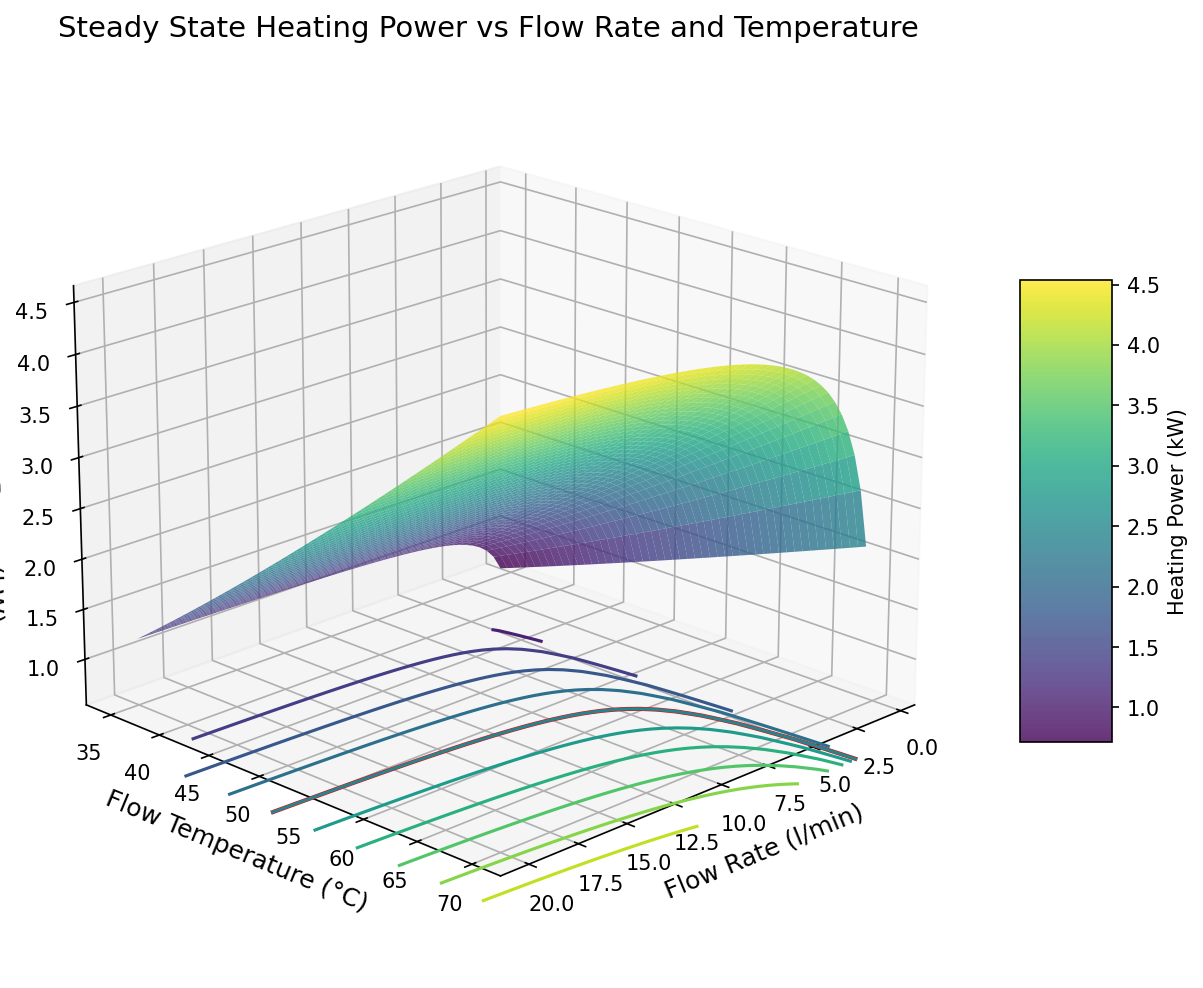
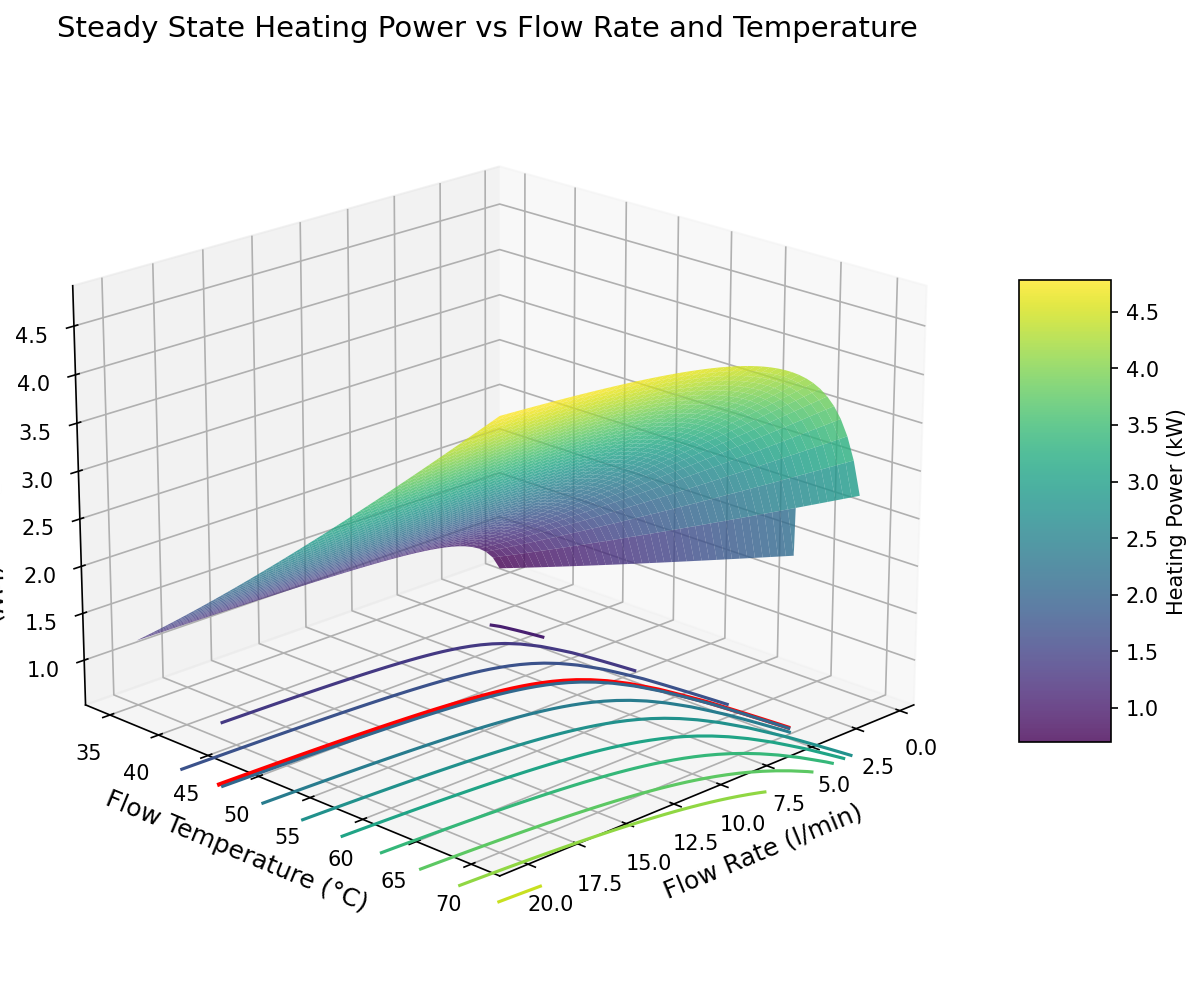
Final rework.

diff --git a/src/heat_pump_cost/radiator_analysis.py b/src/heat_pump_cost/radiator_analysis.py
@@ -23,7 +23,7 @@ TI = 19.0  # Indoor temperature [°C]
 TO = 5.0  # Outdoor temperature [°C]
 
 # Radiator properties
-K_CURRENT = 35.9  # Current radiator constant [W/K^1.2]
+K_CURRENT = 44.9  # Current radiator constant [W/K^1.2]
 N_RAD = 1.2  # Radiator exponent
 
 # Operating parameters
@@ -163,15 +163,21 @@ def plot_performance_vs_power(k_rad=K_CURRENT, vf=VF_FIXED,
     
     # Mark the three key power levels on temperature axis
     key_powers = [1.96, 2.335, 3.12]
-    for qk in key_powers:
+    key_labels = ['S1: 1.96 kW\n(+log burner)', 'S2: 2.34 kW\n(no log burner)', 'S3: 3.12 kW\n(peak)']
+    key_colors = ['steelblue', 'darkorange', 'firebrick']
+    for qk, label, col in zip(key_powers, key_labels, key_colors):
         if power_range[0]/1000 <= qk <= power_range[1]/1000:
+            ax1.axvline(x=qk, color=col, linewidth=0.9, linestyle='--', alpha=0.7)
             idx = np.argmin(np.abs(powers_kw - qk))
             if not np.isnan(flow_temps[idx]):
                 ax1.plot(qk, flow_temps[idx], 'o', color=color1, markersize=8)
-                ax1.annotate(f'{flow_temps[idx]:.0f}°C', 
-                           xy=(qk, flow_temps[idx]), 
-                           xytext=(10, 10), textcoords='offset points',
+                ax1.annotate(f'{flow_temps[idx]:.0f}°C',
+                           xy=(qk, flow_temps[idx]),
+                           xytext=(6, 6), textcoords='offset points',
                            fontsize=9, color=color1)
+            # Annotate label near the top of the plot
+            ax1.text(qk + 0.04, ax1.get_ylim()[0] + (ax1.get_ylim()[1] - ax1.get_ylim()[0]) * 0.97,
+                     label, fontsize=7.5, color=col, va='top', ha='left', linespacing=1.3)
     
     # Create second y-axis on top for COP
     ax2 = ax1.twinx()
@@ -188,7 +194,7 @@ def plot_performance_vs_power(k_rad=K_CURRENT, vf=VF_FIXED,
     ax2.set_ylim([1.5, 6.5])
     
     # Mark the three key power levels on COP axis
-    for qk in key_powers:
+    for qk, col in zip(key_powers, key_colors):
         if power_range[0]/1000 <= qk <= power_range[1]/1000:
             idx = np.argmin(np.abs(powers_kw - qk))
             if not np.isnan(cops[idx]):
@@ -244,13 +250,21 @@ def plot_performance_vs_k(power_levels=[1960, 2335, 3120], vf=VF_FIXED,
     ax2.set_ylabel('COP', fontsize=12, color='black')
     ax2.set_ylim([1.5, 7.0])
     
-    # Plot break-even line
+    # Plot break-even lines
     ax2.axhline(y=4.67, color='black', linestyle='--', linewidth=2, 
                 label='Target COP = 4.67', alpha=0.7)
+    ax1.axhline(y=37.1, color='black', linestyle='--', linewidth=1.2,
+                alpha=0.5, label='T$_f$ = 37.1°C (break-even)')
+
+    # Vertical line at current K
+    ax1.axvline(x=K_CURRENT, color='grey', linewidth=1.2, linestyle='-', alpha=0.8)
+    current_k_annotation = (K_CURRENT, 'grey', f'Current\nK={K_CURRENT}')
     
     lines_temp = []
     lines_cop = []
-    
+    scenario_labels = ['S1: 1.96 kW\n(+log burner)', 'S2: 2.34 kW\n(no log burner)', 'S3: 3.12 kW\n(peak)']
+    vline_annotations = []  # collect (k_target, color, label) for drawing after loop
+
     for i, q_target in enumerate(power_levels):
         print(f"Calculating performance vs K for Q = {q_target/1000:.2f} kW...")
         
@@ -305,6 +319,20 @@ def plot_performance_vs_k(power_levels=[1960, 2335, 3120], vf=VF_FIXED,
                                markersize=10, markeredgecolor='black', markeredgewidth=2)
                         ax2.plot(k_target, 4.67, 'o', color=colors[i], 
                                markersize=10, markeredgecolor='black', markeredgewidth=2)
+                        # Vertical line at break-even K — annotation deferred until after loop
+                        ax1.axvline(x=k_target, color=colors[i], linewidth=0.9, linestyle=':', alpha=0.7)
+                        vline_annotations.append((k_target, colors[i], scenario_labels[i]))
+
+    # Draw vertical-line annotations now that ylim is finalised
+    y_top = ax1.get_ylim()[0] + (ax1.get_ylim()[1] - ax1.get_ylim()[0]) * 0.97
+    # Current K annotation
+    k_ann, col, lbl = current_k_annotation
+    ax1.text(k_ann + 0.8, y_top, lbl,
+             fontsize=7.5, color=col, va='top', ha='left', linespacing=1.3)
+    for k_ann, col, lbl in vline_annotations:
+        ax1.text(k_ann + 0.8, y_top,
+                 f'{lbl}\nK≈{k_ann:.0f}',
+                 fontsize=7.5, color=col, va='top', ha='left', linespacing=1.3)
     
     # Title
     fig.suptitle(f'Flow Temperature and COP vs Radiator Constant\n(V$_f$ = {vf*60:.0f} l/min, T$_o$ = {TO:.0f}°C)', 

diff --git a/src/heat_pump_cost/operations_model.py b/src/heat_pump_cost/operations_model.py
@@ -24,9 +24,9 @@ TO = 5.0  # Outdoor temperature [°C] (January 2026 average)
 # Radiator properties
 # Empirically calibrated from January 2026 actual operation:
 # - Average heating power: 1.96 kW at Ti=19°C, To=5°C
-# - Observed mean radiator temp: ~47.5°C
+# - Observed mean radiator temp: ~42.3°C (at ~10 l/min)
 # - This includes all radiators + pipework heat distribution
-K_RAD = 36.4  # Empirical radiator constant [W/K^n]
+K_RAD = 44.9  # Empirical radiator constant [W/K^n]
 N_RAD = 1.2  # Radiator exponent
 
 # Target heating power (actual average from January 2026)

diff --git a/operations-static.md b/operations-static.md
@@ -1,29 +1,31 @@
-# Accepting the Need for Radiator Upgrades with a Heat Pump Installation 
+# A High Spark Gap Forces Radiator Upgrades in a Heat Pump Installation 
 
-Motivated by the desire to transition away from heating with gas and reduce CO2 emissions I have been reading up on heat pumps and their installation. Various sources such as ["So You're Thinking About a Heat Pump: The UK Homeowner's Guide to Heat Pumps"](https://www.amazon.co.uk/Youre-Thinking-About-Heat-Pump/dp/B0GK7H511K/) or [The Ultimate Guide to Heat Pumps: Britain's best installers and experts tell you exactly what to watch for and what to ask](https://www.amazon.co.uk/Ultimate-Guide-Heat-Pumps-installers/dp/B0FNMNVC4Q) recommend radiator upgrades which do unfortunately increase installation costs. Initially, I hoped to avoid such an upgrade by using a heat pump in tandem with our log burner. In order to be able to make a more informed decision, however, I have carried out a simple analysis using steady-state thermal models. The outcome is perhaps unsurprising: at current energy prices, radiator upgrades appear to be necessary for economically viable heat pump operation in all scenarios, suggesting that the primary motivation for switching would be decarbonisation rather than cost saving. The physical relationship between radiator capacity, flow temperature, and heat pump efficiency creates a trade-off between capital investment and operational flexibility. Note, that this story focuses on order-of-magnitude estimates rather than precise scientific calculations.
+Motivated by the desire to transition away from heating with gas and reduce CO2 emissions I have been reading up on heat pumps and their installation. Various sources such as ["So You're Thinking About a Heat Pump: The UK Homeowner's Guide to Heat Pumps"](https://www.amazon.co.uk/Youre-Thinking-About-Heat-Pump/dp/B0GK7H511K/) or [The Ultimate Guide to Heat Pumps: Britain's best installers and experts tell you exactly what to watch for and what to ask](https://www.amazon.co.uk/Ultimate-Guide-Heat-Pumps-installers/dp/B0FNMNVC4Q) recommend radiator upgrades which do unfortunately increase installation costs. Initially, I hoped to avoid such an upgrade by using a heat pump in tandem with our log burner. In order to be able to make a more informed decision, however, I have carried out a simple analysis using steady-state thermal models. 
+
+The outcome doesn't come as a surprise: the spark gap, the ratio of the unit price of electricity to that of gas, currently stands at about 4.67(^2); this directly sets the minimum Coefficient of Performance (COP) a heat pump must achieve to be cheaper to run than a gas boiler. Achieving that COP requires operating at sufficiently low flow temperatures, which in turn requires more radiator capacity than we currently have. The radiator upgrades are therefore a consequence of the high spark gap rather than an inherent requirement of heat pump technology; at present energy prices the motivation for switching remains decarbonisation rather than cost saving. Note that this story focuses on order-of-magnitude estimates rather than precise scientific calculations.
 
 # Static Analysis and Heat Loss
 
-The starting point of this analysis is the state of our property after the efforts detailed in [Improving the Thermal Performance of UK 1930s Semi Detached Houses](https://peter-wurmsdobler.medium.com/improving-the-thermal-performance-of-uk-1930s-semi-detached-houses-6f64c6514565). Therein the heat transfer model derived from first principles estimates the specific heat loss, or Heat Transfer Coefficient (HTC), to be **244 W/K**. In order to work out a representative heat loss of the building, I chose a cold winter month in Cambridge, UK: the bleak January 2026 with an average outdoor temperature T_o = 5°C; the indoor temperature was kept on average at T_i = 19°C (approximately 20°C downstairs, about 18°C upstairs). The resulting temperature difference is ΔT = 14K and yields an heat loss of Q_l = 244 × 14 = **3.42 kW**.
+The starting point of this analysis is the state of our property after the efforts detailed in [Improving the Thermal Performance of UK 1930s Semi Detached Houses](https://peter-wurmsdobler.medium.com/improving-the-thermal-performance-of-uk-1930s-semi-detached-houses-6f64c6514565). Therein the heat transfer model derived from first principles estimates the specific heat loss, or Heat Transfer Coefficient (HTC), to be **244 W/K**. In order to work out a representative heat loss of the building, I chose a cold winter month in Cambridge, UK: the bleak January 2026 with an average outdoor temperature T_o = 5°C; the indoor temperature was kept on average at T_i = 19°C (approximately 20°C downstairs, about 18°C upstairs). The resulting temperature difference is ΔT = 14K and yields a heat loss of Q_l = 244 × 14 = **3.42 kW**.
 
-To validate this estimate, I looked up our energy consumption for January 2026: over that period electricity consumption was 263.75kWh (8.5kWh/day on average or 0.35kW continuous power), and gas utilisation was 1,924.91kWh (62.1 kWh/day on average or 2.59kW continuous power); the latter includes space heating and domestic hot water (DHC). It is assumed that energy for DHC stays mostly the same throughout the year and is responsible for the gas use in summer; for instance, in summer 2025 gas usage was about 12.5 kWh per day on average. As mentioned before, we have been using a log burner as supplemental heat source, providing approximately 3 kW output for 3 hours daily which contributes 9 kWh/day as heat (0.375 kW average power). Over the heating period we are using about 1m^3 of locally source hard wood for £150, which results in about £1/day.
+To validate this estimate, I looked up our energy consumption for January 2026: over that period electricity consumption was 263.75kWh (8.5kWh/day on average or 0.35kW continuous power), and gas utilisation was 1,924.91kWh (62.1 kWh/day on average or 2.59kW continuous power); the latter includes space heating and domestic hot water (DHC). It is assumed that energy for DHC stays mostly the same throughout the year and is solely responsible for the gas use in summer; for instance, in summer 2025 gas usage was about 12.5 kWh per day on average. In addition, we have been using a log burner as supplemental heat source, providing approximately 3 kW output for 3 hours daily which contributes 9 kWh/day as heat (0.375 kW average power). Over the heating period we are using about 1m^3 of locally sourced hard wood for £150, which results in about £1/day.
 
-After subtracting the estimated DHC portion (12.5 kWh/day) from total gas consumption (62.1 kWh/day), the remaining 49.6 kWh/day of gas provides 47.12 kWh/day of actual heat to the radiators at 95% boiler efficiency(^1), i.e. 1.96 kW average power. Since most of electricity is eventually dissipated as heat, e.g. from appliances, it will add about 0.3 kW as a heating equivalent. All combined, the total average heating power is 2.635 kW (radiators 1.96 kW + log burner 0.375 kW + appliances 0.3 kW), which is 77% of the estimated heat loss from the thermal model (3.42 kW). This discrepancy is a bit more than I expected but also reasonable, considering unaccounted solar gain and internal heat gains from occupants, as well as the fact that not all rooms are maintained at 19°C continuously (heating off from 10pm to 5am, and entrance hall more like 15°C). 
+After subtracting the estimated DHC portion (12.5 kWh/day) from total gas consumption (62.1 kWh/day), the remaining 49.6 kWh/day of gas provides 47.12 kWh/day of actual heat to the radiators at 95% boiler efficiency(^1), i.e. 1.96 kW average power. Electricity consumed by appliances and eventually dissipated as heat will add about 0.3 kW as a heating equivalent. All combined, the total average heating power is 2.635 kW (radiators 1.96 kW + log burner 0.375 kW + appliances 0.3 kW), which is 77% of the estimated heat loss from the thermal model (3.42 kW). This discrepancy is a bit more than I expected but also reasonable, considering unaccounted solar gain and internal heat gains from occupants, as well as the fact that not all rooms are maintained at 19°C continuously (heating off from 10pm to 5am, and entrance hall more like 15°C) and we use thick curtains for the main entrance, french doors and windows. 
 
 ## Stationary Model of a House
 
-The model used here assumes a simple lumped-mass representation of the house with the following parameters: internal thermal capacity or mass C, insulated envelope with heat transfer coefficient h, internal temperature T_i, and outside temperature T_o. Heat is supplied as Q_h through a flow rate V_f at flow temperature T_f and return temperature T_r. Heat is transferred to the internal thermal mass as Q_r through radiators with a characteristic constant K and radiative exponent n. Supplemental heat Q_b is provided by a log burner, and Q_a from appliances. The house loses heat as Q_l through the building fabric.
+The model used here assumes a simple lumped-mass representation of the house with the following parameters: internal temperature T_i, and outside temperature T_o; heat is supplied as Q_h at flow temperature T_f and return temperature T_r, then transferred to the internal thermal mass as Q_r through radiators; supplemental heat Q_b is provided by a log burner, and Q_a from appliances. The house loses heat as Q_l through the building fabric.
 
-![Simle termal model for house](assets/house-model.png)
+![Simple thermal model for house](assets/house-model.png)
 *Figure: Simple representation of a simple house model with heat sources and losses.*
 
-The individual heat contributions can be written using heating fluid (water) density ρ and its specific thermal capacity c_p as:
+The individual heat contributions can be written using heating fluid (water) density ρ and its specific thermal capacity c_p, the characteristic radiator constant K and radiative exponent n, the transfer coefficient h, and a flow rate V_f as:
 
 Q_h = V_f * ρ * c_p * (T_f - T_r)<br>
 Q_r = K * ((T_f + T_r)/2 - T_i)^n<br>
 Q_l = h * (T_i - T_o)
 
-In an equilibrium, or steady state, the heat balance for the radiator circuit (no losses in short pipework), is Q_h = Q_r, and for the room thermal balance, Q_r + Q_b + Q_a = Q_l; the balance is invariant to the thermal mass C. Overall, the radiator system must deliver:
+In an equilibrium, or steady state, the heat balance for the radiator circuit (no losses in short pipework), is Q_h = Q_r, and for the room thermal balance, Q_l = Q_r + Q_b + Q_a; the balance in a steady state is invariant to the thermal mass. Overall, the radiator system must deliver:
 
 Q_r = Q_l - Q_b - Q_a = h * (T_i - T_o) - Q_b - Q_a
 
@@ -31,64 +33,64 @@ This simplified model treats all radiators as a single unit, assuming uniform fl
 
 ## Empirical Validation
 
-To validate the model, on one hand I used the operating conditions from January 2026 with an average radiator heating power of 1.96 kW. On the other, The installed radiators comprise single panel with single convector (Type 11) with dimensions 0.6×0.5 m, 1.0×0.5 m, 1.2×0.5 m, 0.5×0.6 m, and two 0.4×1.8 m panels totalling A = 3.14 m², and double panel with double convector (Type 22) with dimensions 0.6×0.5 m and 1.2×0.5 m totalling A = 0.9 m². Heat transfer coefficients based on typical radiator performance data are U ≈ 8 W/m²/K^1.2 for Type 11 radiators and U ≈ 12 W/m²/K^1.2 for Type 22 radiators. The resulting radiator constant K = 35.9 W/K^1.2.
+To validate the model, I used the operating conditions from January 2026 with an average radiator heating power of 1.96 kW on one hand. On the other, The installed radiators comprise single panel with single convector (Type 11) with dimensions 0.6×0.5 m, 1.0×0.5 m, 1.2×0.5 m, 0.5×0.6 m, and two 0.4×1.8 m panels totalling A = 3.14 m², and double panel with double convector (Type 22) with dimensions 0.6×0.5 m and 1.2×0.5 m totalling A = 0.9 m². Heat transfer coefficients based on typical radiator performance data are U ≈ 10 W/m²/K^1.2 for Type 11 radiators and U ≈ 15 W/m²/K^1.2 for Type 22 radiators. The resulting radiator constant K = 44.9 W/K^1.2.
 
-Using the radiator equation Q_r = K × ΔT^1.2 and Q_r = 1.96 kW gives 1960 W = 35.9 W/K^1.2 × ΔT^1.2, i.e. ΔT required works out to be 28.5K. ΔT now depends on both the indoor temperature 19°C and the mean radiator temperature which depends on the flow rate and flow temperature; here we assume about 10 l/min which results in a mean radiator temperature of approximately 47.5°C (flow ~50°C, return ~45°C). I haven't got a temperature probe on the flow pipes, but the radiators "felt" very warm but not hot and it was bearable to touch them, which means the flow temperature is about 40ish °C. In addition, the boilers displayed a "boiler" temperature in the same range.
+Using the radiator equation Q_r = K × ΔT^1.2 and Q_r = 1.96 kW gives 1960 W = 44.9 W/K^1.2 × ΔT^1.2, i.e. ΔT required works out to be 23.3K. ΔT now depends on both the indoor temperature 19°C and the mean radiator temperature which depends on the flow rate and flow temperature; here we assume about 10 l/min which results in a mean radiator temperature of approximately 42.3°C (flow ~45°C, return ~40°C). I haven't got a temperature probe on the flow pipes, but the radiators "felt" very warm but not hot and it was bearable to touch them, which means the flow temperature is about 40ish °C. In addition, the boilers displayed a "boiler" temperature in the same range.
 
 ## Operating Constraints
 
-With our empirically validated radiator constant (K = 35.9 W/K^1.2), we can now explore the fundamental relationship between flow rate and flow temperature for delivering heating power. Using constants for water as the working fluid (ρ = 1 kg/l and c_p = 4.18 kJ/kg/K), with the January 2026 average conditions (T_o = 5°C and T_i = 19°C), and radiator exponent n = 1.2, there are multiple combinations of flow temperature T_f and flow rate V_f that can deliver the same heating power.
+With our empirically validated radiator constant (K = 44.9 W/K^1.2), we can now explore the fundamental relationship between flow rate and flow temperature for delivering heating power. Using constants for water as the working fluid (ρ = 1 kg/l and c_p = 4.18 kJ/kg/K), with the January 2026 average conditions (T_o = 5°C and T_i = 19°C), and radiator exponent n = 1.2, there are combinations of flow temperature T_f and flow rate V_f that can deliver the same heating power, shown as curves at constant power in the following plot. In other words, a heating controller can modulate either the flow temperature T_f or the flow rate V_f to achieve the same effect (if not sabotaged by Thermostatic Radaiator Valves, TRVs).
 
 ![Contour Plot](assets/operations_contour.png)
 *Figure: Contour plot showing constant heating power curves. The 1.96 kW average radiator heating power is highlighted in red. This curve represents the operational constraint imposed by the current radiator capacity.*
 
-For a given radiator constant K = 35.9 W/K^1.2, any target heating power defines a specific curve on this plot. The current radiators confine operation to the red 1.96 kW curve, which demonstrates the fundamental trade-off: low flow operation (~0.6 l/min) requires 70°C flow temperature with large temperature drop to the return temerpature (ΔT ≈ 33K) as well as a large temperature difference to the room temperature (ΔT ≈ 51K), whilst high flow operation (~20 l/min) requires only 47°C flow temperature with small temperature drop to the return temerpature (ΔT ≈ 1.5K) as well as a small temperature difference to the room temperature (ΔT ≈ 27K). 
+For a given radiator constant K = 44.9 W/K^1.2, any target heating power defines a specific curve on this plot. The current radiators confine operation to the red 1.96 kW curve, which demonstrates the fundamental trade-off: low flow operation (~0.6 l/min) requires 66°C flow temperature with a large temperature drop to the return (ΔT ≈ 47K), whilst high flow operation (~20 l/min) requires only 43°C flow temperature with a small temperature drop to the return (ΔT ≈ 1.4K). At both extremes the mean radiator temperature is roughly the same (~42°C, determined by K and the heating load), but the higher flow rate achieves the target power with a much lower flow temperature which is what matters for the heat pump COP. 
 
 # The Radiator Constant Impact
 
-The countour plot shows well that for a given radiator constant K and flow temperature the delivered heating power converges towards a constant with increasing flow rate; in other words, there is a limit to how much power can be delivered over existing radiators at a given flow temperature which is reached when the difference between radiator flow and return temperature goes to zero as the flow rate to infinity. Most pumps will struggle to reach that as fluid dynamics will affect resistance and pumping power; so practically, we stay with a maximum flow rate below 20l/min.
+The contour plot shows that for a given radiator constant K and flow temperature the delivered heating power converges towards a constant with increasing flow rate; in other words, there is a limit to how much power can be delivered over existing radiators at a given flow temperature which is reached when the difference between radiator flow and return temperature goes to zero as the flow rate goes to infinity. Most pumps will struggle to reach that as fluid dynamics will affect resistance and pumping power is limited; so practically, we stay with a maximum flow rate below 20l/min, assumed for the remainder of this story. Then the heat delivered becomes a function of the flow temperature only, and so does the COP.
 
 ## Performance over Power
 
-Suppose we set the flow rate at 20l/min for the rest of analysis. Then the heat delivered becomes a function of the flow temperature, and so does the COP. It is perhaps revealing to show the required flow temperature T_f as a function of heat delivered P_r in our current setup (K = 35.9 W/K^1.2), then also show the achievable COP for that power, bearing in mind that the heat pump needs to run at about 5°C above the radiator flow temperature since heat needs to be transferred from the internal heat pump circuit to the radiator circuit. Three scenarios detailed below demonstrate the issue.
+As already stated at the beginning, the spark gap is simply the ratio of the unit price of electricity to that of gas: at January 2026 prices, 27.69p/kWh divided by 5.93p/kWh gives 4.67(^2). For the heat pump to cost no more to run than the gas boiler it replaces, it must achieve a COP of at least 4.67; below that threshold, each unit of heat costs more to produce electrically than it would with gas. It is therefore perhaps revealing to show both the required flow temperature T_f and the achievable COP as a function of heat delivered, in our current setup (K = 44.9 W/K^1.2), bearing in mind that the heat pump needs to run at about 5°C above the radiator flow temperature since heat needs to be transferred from the internal heat pump circuit to the radiator circuit. Three scenarios detailed below demonstrate the issue.
 
 ![Performance vs Power](assets/performance_vs_power.png)
-*Figure: For the current radiator constant K = 35.9 W/K^1.2, the flow temperature (left axis, blue) and the expected COP (right axis, green) plotted over heat power delivered. The red dashed line shows break-even COP = 4.67 (spark gap at January 2026 prices). The three marked points show: 1.96 kW with log burner (COP = 3.75, below break-even), 2.33 kW without log burner (COP = 3.48, further below), and 3.12 kW at peak condition (COP = 3.04, well below).*
+*Figure: For the current radiator constant K = 44.9 W/K^1.2, the flow temperature (left axis, blue) and the expected COP (right axis, green) plotted over heat power delivered. The red dashed line shows break-even COP = 4.67. The three marked points show: 1.96 kW with log burner (COP = 4.11, below break-even), 2.34 kW without log burner (COP = 3.82, further below), and 3.12 kW at peak condition (COP = 3.36, well below).*
 
 ### Scenario 1 Heat Pump With Log Burner
 
-If the gas boiler is replaced with a heat pump whilst continuing to use the log burner for supplemental heat, the heat balance remains with radiators delivering Q_r = 1.96 kW, log burner providing Q_b = 0.375 kW, appliances contributing Q_a = 0.3 kW, and total heat Q_l = 2.635 kW (including internal gains). High flow operation optimised for the heat pump at 20 l/min requires a flow temperature of 48°C with return temperature ~46°C (ΔT ≈ 1.4K), delivering 1.96 kW heating power. The estimated COP is 3.75 (at T_o=5°C, T_f=48°C), requiring electrical input of ~0.52 kW for daily electricity consumption of 12.5 kWh and daily electricity cost of £3.47 at 27.69p/kWh. Adding the log burner wood cost of £1.00/day gives a total daily cost of £4.47.
+If the gas boiler is replaced with a heat pump whilst continuing to use the log burner for supplemental heat, the heat balance remains with radiators delivering Q_r = 1.96 kW, log burner providing Q_b = 0.375 kW, appliances contributing Q_a = 0.3 kW, and total heat Q_l = 2.635 kW (including internal gains). High flow operation optimised for the heat pump at 20 l/min requires a flow temperature of 43°C with return temperature ~42°C (ΔT ≈ 1.4K), delivering 1.96 kW heating power. The estimated COP is 4.11 (at T_o=5°C, T_f=43°C), requiring electrical input of ~0.48 kW for daily electricity consumption of 11.4 kWh and daily electricity cost of £3.17 at 27.69p/kWh. Adding the log burner wood cost of £1.00/day gives a total daily cost of £4.17.
 
-For comparison, gas for space heating (49.6 kWh/day at 5.93p/kWh) costs £2.94/day; including the log burner at £1.00/day brings the current total to £3.94/day. The heat pump scenario therefore costs £0.53/day more, approximately 13% more expensive than the current gas-plus-log-burner setup. The COP of 3.75 falls below the spark gap of 4.67, indicating that at January 2026 energy prices the heat pump with log burner does not offer an economic advantage over gas, even though it would achieve fossil fuel independence for space heating.
+For comparison, gas for space heating (49.6 kWh/day at 5.93p/kWh) costs £2.94/day; including the log burner at £1.00/day brings the current total to £3.94/day. The heat pump scenario therefore costs £0.23/day more, approximately 6% more expensive than the current gas-plus-log-burner setup. The COP of 4.11 still falls below the spark gap of 4.67, indicating that at January 2026 energy prices the heat pump with log burner does not offer an economic advantage over gas, even though it would achieve fossil fuel independence for space heating. Conversely, it would only need a spark gap of 4.11 to start breaking even.
 
 ### Scenario 2 Heat Pump Without Log Burner
 
 Without the log burner, the heat pump must provide the full heating requirement. Based on the heat balance equation (Q_r + Q_b + Q_a = Q_l), removing the log burner means that the total heat delivered Q_l = 1.96 + 0.375 + 0.3 = 2.635 kW (actual measured, including appliance gains) must now come from radiators and appliances, with Q_r = 2.335 kW required from the heat pump. 
 
-Heat pump operation at maximum flow (20 l/min) requires a flow temperature of 52°C with return temperature ~51°C (ΔT ≈ 1.7K) to deliver 2.335 kW heating power. The estimated COP is 3.48 (at T_o=5°C, T_f=52°C), requiring electrical input of ~0.67 kW for daily electricity consumption of 16.1 kWh and daily cost of £4.46 at 27.69p/kWh. The operating cost is thus 13% higher than the current gas-plus-log-burner baseline (£3.94/day), and the COP of 3.48 falls below the break-even threshold of 4.67.
+Heat pump operation at maximum flow (20 l/min) requires a flow temperature of 47°C with return temperature ~45°C (ΔT ≈ 1.7K) to deliver 2.335 kW heating power. The estimated COP is 3.82 (at T_o=5°C, T_f=47°C), requiring electrical input of ~0.61 kW for daily electricity consumption of 14.7 kWh and daily cost of £4.06 at 27.69p/kWh. The operating cost is thus 3% higher than the current gas-plus-log-burner baseline (£3.94/day), and the COP of 3.82 falls below the break-even threshold of 4.67. Again, a spark gap below 3.82 would change the picture.
 
 ### Scenario 3 Heat Pump Without Log Burner at Peak Condition
 
-The constraint is exacerbated during peak conditions. For a conservative design representing the theoretical full load during the coldest conditions, appliances contribute Q_a = 0.3 kW, leaving the heat pump to deliver 3.42 - 0.3 = 3.12 kW. At maximum flow (20 l/min), this requires a flow temperature of ~61°C with COP dropping to 3.04 and daily cost of £6.82 at 27.69p/kWh (24.6 kWh/day). This worst-case scenario underlines the case for radiator upgrades: attempting to deliver peak heating loads with insufficient radiator capacity requires operation at 61°C flow temperature, pushing the COP well below the break-even threshold of 4.67.
+The constraint is exacerbated during peak conditions. For a conservative design representing the theoretical full load during the coldest conditions, appliances contribute Q_a = 0.3 kW, leaving the heat pump to deliver 3.42 - 0.3 = 3.12 kW. At maximum flow (20 l/min), this requires a flow temperature of ~54°C with COP dropping to 3.36 and daily cost of £6.17 at 27.69p/kWh (22.3 kWh/day). This worst-case scenario underlines the case for radiator upgrades: attempting to deliver peak heating loads with insufficient radiator capacity requires operation at 54°C flow temperature, pushing the COP well below the break-even threshold of 4.67. Alternatively, a spark gap smaller than 3.36 would change the economics.
 
 
 ## Adjusting the Radiator Constant
 
-At this point it is clear that radiators need to be upgraded, i.e. the constant K needs to be higher, but to what extent? To this end, let's work out the flow temperature and the expected COP plotted over a variable radiator constant K, but for various heating power: the base load with log burner (1.96kW), one without log burner (2.335 kW) and the peak condition (3.12 kW). The intersection with the minimum COP to break even should reveal the required K for each case. (Note, heat pump temperature needs to be 5°C above the radiator flow temperature).
+At this point it is clear that, given the current spark gap of 4.67, the radiators need to be upgraded in order for the COP to exceed the break-even threshold, i.e. the constant K needs to be higher, but to what extent? To this end, let's work out the flow temperature and the expected COP plotted over a variable radiator constant K, but for various heating powers: the base load with log burner (1.96kW), one without log burner (2.335 kW) and the peak condition (3.12 kW). The intersection with the minimum COP to break even should reveal the required K for each case. (Note, heat pump temperature needs to be 5°C above the radiator flow temperature).
 
 ![Performance vs K](assets/performance_vs_k.png)
-*Figure: For three heating power levels, the flow temperature (left axis, solid lines) and the expected COP (right axis, dashed lines) plotted over radiator constant K. The circles mark where COP reaches 4.67 (break-even threshold at January 2026 prices). To achieve break-even, K must be upgraded to 64 for 1.96 kW (blue, 1.8× current), to 76 for 2.33 kW (green, 2.1× current), and to 104 for 3.12 kW (red, 2.9× current). All break-even points converge to the same flow temperature of 37.1°C.*
+*Figure: For three heating power levels, the flow temperature (left axis, solid lines) and the expected COP (right axis, dashed lines) plotted over radiator constant K. The circles mark where COP reaches 4.67 (break-even threshold at January 2026 prices). To achieve break-even, K must be upgraded to 64 for 1.96 kW (blue, 1.4× current), to 76 for 2.34 kW (green, 1.7× current), and to 104 for 3.12 kW (red, 2.3× current). All break-even points converge to the same flow temperature of 37.1°C.*
 
-The spark gap of 4.67 raises the break-even threshold substantially, requiring low flow temperatures (37.1°C) to achieve economic parity with gas. At January 2026 energy prices, none of the scenarios reach break-even with the current radiator constant. For the 1.96 kW scenario with log burner, an upgrade to K ≈ 64 W/K^1.2 (1.8× current) is required. For the 2.335 kW scenario without log burner, K ≈ 76 W/K^1.2 (2.1× current) is needed. For the 3.12 kW peak condition, K ≈ 104 W/K^1.2 (2.9× current) is required. Notably, all three break-even points converge to the same 37.1°C flow temperature, which is the physical constraint imposed by the spark gap: heat pump operation is only economic when the flow temperature is low enough to yield COP ≥ 4.67.
+At January 2026 energy prices, none of the three scenarios break even with the current K = 44.9. Because the required COP is set by the spark gap alone, all three break-even points converge to the same flow temperature of 37.1°C regardless of heating load; reaching that point requires progressively more radiator capacity as the heating load increases. For the 1.96 kW scenario with log burner, an upgrade to K ≈ 64 W/K^1.2 (1.4× current) is required. For the 2.335 kW scenario without log burner, K ≈ 76 W/K^1.2 (1.7× current) is needed. For the 3.12 kW peak condition, K ≈ 104 W/K^1.2 (2.3× current) is required, which can only be achieved by replacing most radiators with larger Type 22 or Type 33 panels and adding radiators in key rooms.
 
 # Conclusion
 
-The recommended upgrade specification for economic break-even with fossil fuel independence is K ≈ 104 W/K^1.2 (approximately 2.9× current capacity, a substantial upgrade), achieved by replacing most radiators with larger Type 22 or Type 33 panels and adding radiators in key rooms. Even for the log-burner-supplemented scenario (1.96 kW), an upgrade to K ≈ 64 W/K^1.2 (1.8× current) is required to reach break-even. These upgrades are more demanding than a lower spark gap would imply, and reflect the current energy price environment where the motivation for switching would be decarbonisation rather than cost saving, unless a significant change in the electricity pricing (e.g. move a away from merit order based marginal pricing).
+The upgrades required at the current spark gap are substantial; replacing most radiators with larger panels and adding radiators in key rooms involves significant cost and disruption. At present the case for switching rests on decarbonisation rather than cost saving. Should energy pricing shift, however (e.g. a move away from merit order based marginal pricing, or adding energy transition costs to gas rather than onto the electricity cost), the required upgrades would become less severe. A spark gap below roughly 3.3 would bring the break-even flow temperature up high enough that no radiator upgrade would be needed at all, hence removing yet another impediment for heat-pump adoption.
 
 
 # References
 
 1. **Boiler efficiency:** The Viessmann Vitodens 222-F condensing gas boiler achieves 95% efficiency under typical operating conditions.
 
-2. **Energy costs** as of January 2026 for British Gas standard tariff as the worst case: Natural gas at 5.93p/kWh and electricity assumed at 27.69p/kWh for heat pump analysis as an obtainable price depending on the tariff; a "spark gap" of 27.69/5.93 = 4.67.
+2. **Energy costs** as of January 2026, Ofgem energy price cap for a typical dual-fuel household paying by Direct Debit sets electricity at 27.69p per kWh with a 54.75p daily standing charge, and gas at 5.93p per kWh with a 35.09p daily standing charge. 
 
